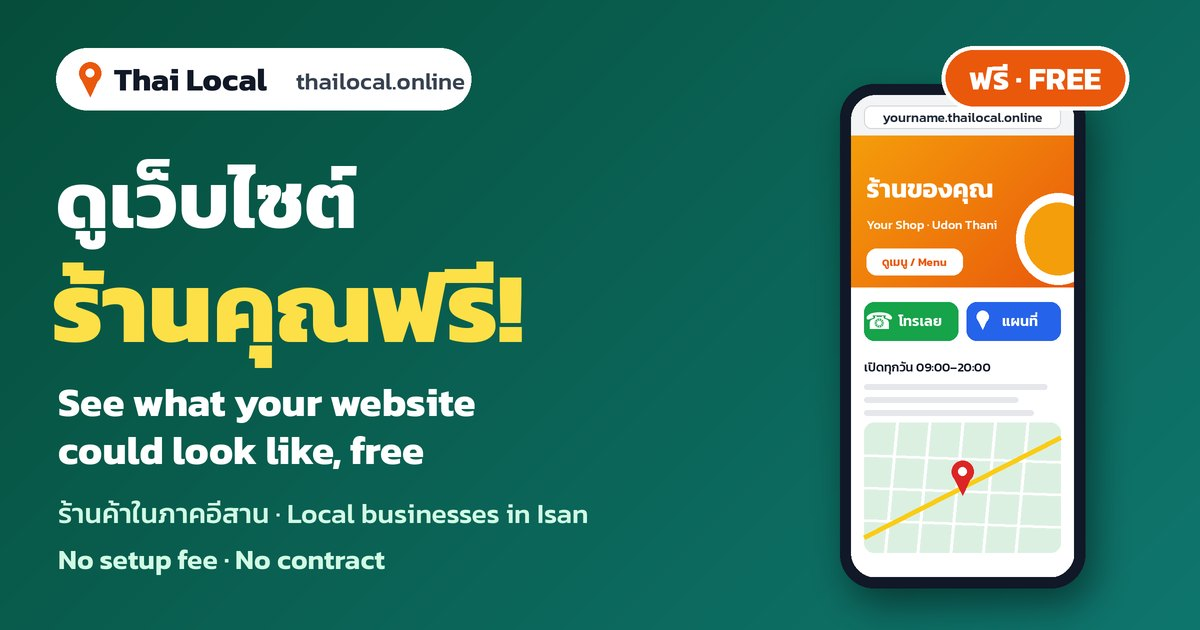
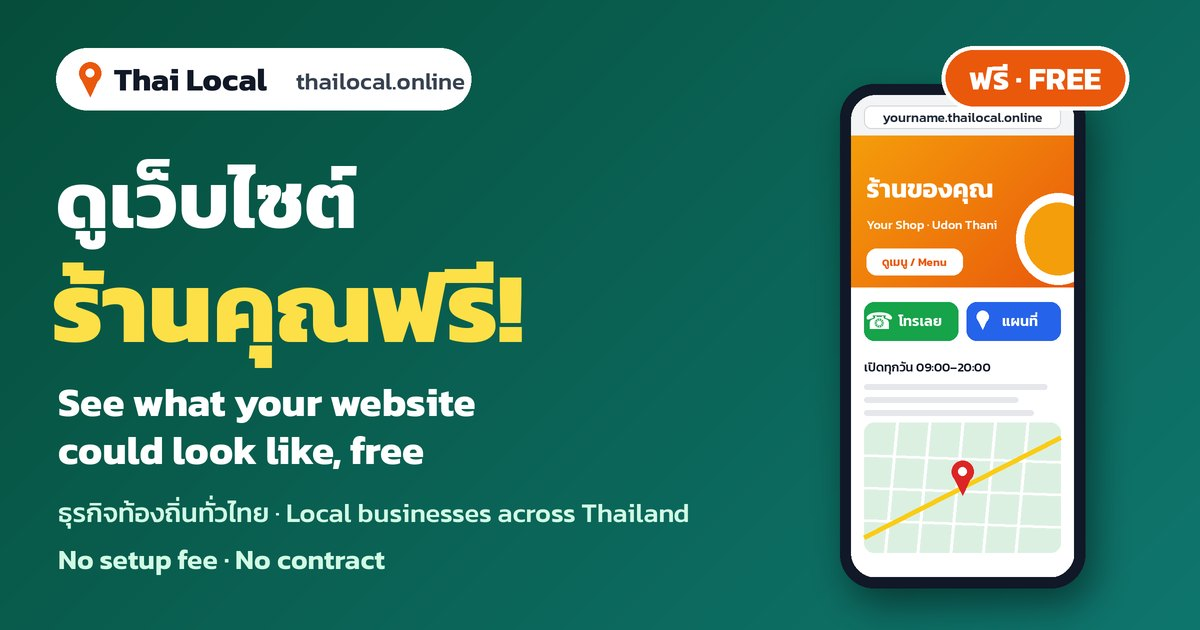
Free-text town/province field; Thailand-wide wording (examples stay Udon)

Changed region(s): [[0.0308, 0.7841, 0.5858, 0.8444]]

diff --git a/index.html b/index.html
@@ -3,8 +3,8 @@
 <head>
 <meta charset="utf-8">
 <meta name="viewport" content="width=device-width, initial-scale=1, viewport-fit=cover">
-<title>ดูเว็บไซต์ร้านคุณฟรี | Thai Local – Free website draft for local businesses in Isan</title>
-<meta name="description" content="ทำเว็บตัวอย่างให้ร้านคุณดูฟรี ไม่มีข้อผูกมัด สำหรับธุรกิจท้องถิ่นในภาคอีสาน อุดรธานี ขอนแก่น ถูกใจค่อยเปิดใช้ 1,250 บาท/เดือน รวมทุกอย่าง See a free draft of your business's website first. No setup fee, no contract.">
+<title>ดูเว็บไซต์ร้านคุณฟรี | Thai Local – Free website draft for local businesses in Thailand</title>
+<meta name="description" content="ทำเว็บตัวอย่างให้ร้านคุณดูฟรี ไม่มีข้อผูกมัด สำหรับธุรกิจท้องถิ่นทั่วประเทศไทย ถูกใจค่อยเปิดใช้ 1,250 บาท/เดือน รวมทุกอย่าง See a free draft of your business's website first. No setup fee, no contract.">
 <meta name="theme-color" content="#0F766E">
 <!-- Open Graph (og:image/og:url must be absolute for Facebook/LINE) -->
 <meta property="og:type" content="website">
@@ -12,7 +12,7 @@
 <meta property="og:locale" content="th_TH">
 <meta property="og:locale:alternate" content="en_US">
 <meta property="og:title" content="ดูเว็บไซต์ร้านคุณฟรี · See what your website could look like, free">
-<meta property="og:description" content="เว็บตัวอย่างฟรีสำหรับธุรกิจท้องถิ่นในภาคอีสาน ไม่มีข้อผูกมัด · Free website draft for local businesses in Northeast Thailand. No setup fee, no contract.">
+<meta property="og:description" content="เว็บตัวอย่างฟรีสำหรับธุรกิจท้องถิ่นทั่วประเทศไทย ไม่มีข้อผูกมัด · Free website draft for local businesses across Thailand. No setup fee, no contract.">
 <meta property="og:url" content="https://thailocal.online/">
 <meta property="og:image" content="https://thailocal.online/img/og-image.jpg">
 <meta property="og:image:width" content="1200">
@@ -47,7 +47,7 @@
 <section class="hero">
   <div class="wrap hero-in">
     <div class="hero-text">
-      <p class="kicker">ธุรกิจท้องถิ่นในภาคอีสาน <span lang="en">· Local businesses in Isan</span></p>
+      <p class="kicker">ธุรกิจท้องถิ่นทั่วประเทศไทย <span lang="en">· Local businesses across Thailand</span></p>
       <h1>ดูเว็บไซต์ร้านคุณ<span class="hl">ฟรี</span></h1>
       <p class="h1-en" lang="en">See what your website could look like, free</p>
       <p class="lead">เราทำเว็บตัวอย่างของร้านคุณให้ดูก่อน ฟรี ไม่มีข้อผูกมัด ถูกใจค่อยเปิดใช้งานจริง</p>
@@ -154,12 +154,8 @@
         <p class="err" data-for="email">อีเมลไม่ถูกต้อง <span lang="en">Please check your email</span></p>
       </div>
       <div class="field">
-        <label for="city">จังหวัด <span class="l-en" lang="en">City</span></label>
-        <select id="city" name="city">
-          <option value="Udon Thani">อุดรธานี · Udon Thani</option>
-          <option value="Khon Kaen">ขอนแก่น · Khon Kaen</option>
-          <option value="Other Isan">จังหวัดอื่นในภาคอีสาน · Other Isan</option>
-        </select>
+        <label for="city">อำเภอ / จังหวัด <span class="opt">(ไม่บังคับ)</span><span class="l-en" lang="en">Town / province (optional)</span></label>
+        <input id="city" name="city" type="text" autocomplete="address-level2" placeholder="เช่น หนองคาย, อุดรธานี" maxlength="100">
       </div>
       <!-- honeypot: humans never see or fill this -->
       <div class="hp" aria-hidden="true">
@@ -214,7 +210,7 @@
       <svg class="pin" viewBox="0 0 24 32" aria-hidden="true"><path d="M12 0C5.4 0 0 5.3 0 11.9 0 20.8 12 32 12 32s12-11.2 12-20.1C24 5.3 18.6 0 12 0z" fill="#EA580C"/><circle cx="12" cy="12" r="4.6" fill="#fff"/></svg>
       <span>Thai Local</span>
     </div>
-    <p>เว็บไซต์สำหรับธุรกิจท้องถิ่นในภาคอีสาน <span lang="en">Websites for local businesses in Northeast Thailand</span></p>
+    <p>เว็บไซต์สำหรับธุรกิจท้องถิ่นทั่วประเทศไทย <span lang="en">Websites for local businesses across Thailand</span></p>
     <p class="contacts">
       <a href="https://wa.me/66656495277" target="_blank" rel="noopener">WhatsApp 065 649 5277</a>
       <a href="mailto:hello@thailocal.online">hello@thailocal.online</a>

diff --git a/why/index.html b/why/index.html
@@ -94,7 +94,7 @@
       <svg class="pin" viewBox="0 0 24 32" aria-hidden="true"><path d="M12 0C5.4 0 0 5.3 0 11.9 0 20.8 12 32 12 32s12-11.2 12-20.1C24 5.3 18.6 0 12 0z" fill="#EA580C"/><circle cx="12" cy="12" r="4.6" fill="#fff"/></svg>
       <span>Thai Local</span>
     </div>
-    <p>เว็บไซต์สำหรับธุรกิจท้องถิ่นในภาคอีสาน <span lang="en">Websites for local businesses in Northeast Thailand</span></p>
+    <p>เว็บไซต์สำหรับธุรกิจท้องถิ่นทั่วประเทศไทย <span lang="en">Websites for local businesses across Thailand</span></p>
     <p class="contacts"><a href="https://wa.me/66656495277" target="_blank" rel="noopener">WhatsApp 065 649 5277</a><a href="mailto:hello@thailocal.online">hello@thailocal.online</a></p>
     <p class="foot-links"><a href="../">หน้าแรก · Home</a><a href="../#form">ขอเว็บฟรี · Free draft</a></p>
     <p class="copy">© 2026 Thai Local</p>

diff --git a/app.js b/app.js
@@ -73,7 +73,7 @@
       shop_name: val('shop_name').slice(0, 200),
       contact: val('contact').slice(0, 200),
       email: val('email') || null,
-      city: form.elements.city.value || null,
+      city: val('city').slice(0, 100) || null,
       user_agent: (navigator.userAgent || '').slice(0, 500)
     };
 

diff --git a/make_assets.py b/make_assets.py
@@ -15,7 +15,7 @@ d.text((s(56),s(140)),"ดูเว็บไซต์",font=F("Bold",80),fill=WH
 d.text((s(52),s(232)),"ร้านคุณฟรี!",font=F("ExtraBold",100),fill=YEL)
 d.text((s(58),s(372)),"See what your website",font=F("Bold",40),fill=WHITE)
 d.text((s(58),s(420)),"could look like, free",font=F("Bold",40),fill=WHITE)
-d.text((s(58),s(492)),"ร้านค้าในภาคอีสาน · Local businesses in Isan",font=fit(d,"ร้านค้าในภาคอีสาน · Local businesses in Isan","Medium",28,640),fill=MINT)
+d.text((s(58),s(492)),"ธุรกิจท้องถิ่นทั่วไทย · Local businesses across Thailand",font=fit(d,"ธุรกิจท้องถิ่นทั่วไทย · Local businesses across Thailand","Medium",28,640),fill=MINT)
 d.text((s(58),s(538)),"No setup fee · No contract",font=F("SemiBold",28),fill=MINT)
 px,py,pw,ph=s(840),s(84),s(245),s(504)
 phone(base,px,py,pw,ph,("#F59E0B","#EA580C")); d=ImageDraw.Draw(base)

diff --git a/README.md b/README.md
@@ -1,6 +1,6 @@
 # Thai Local – "Get your free website draft" landing page
 
-Static, bilingual (Thai first, English beneath) landing page for Thai Local, a website service for local businesses in Northeast Thailand (Isan).
+Static, bilingual (Thai first, English beneath) landing page for Thai Local, a website service for local businesses across Thailand (examples are from Udon Thani).
 
 - Live: https://thailocal.online/ (www and the old https://axess34.github.io/thailocal/ redirect here)
 - All asset paths are relative; only og:url, og:image and canonical are absolute.
